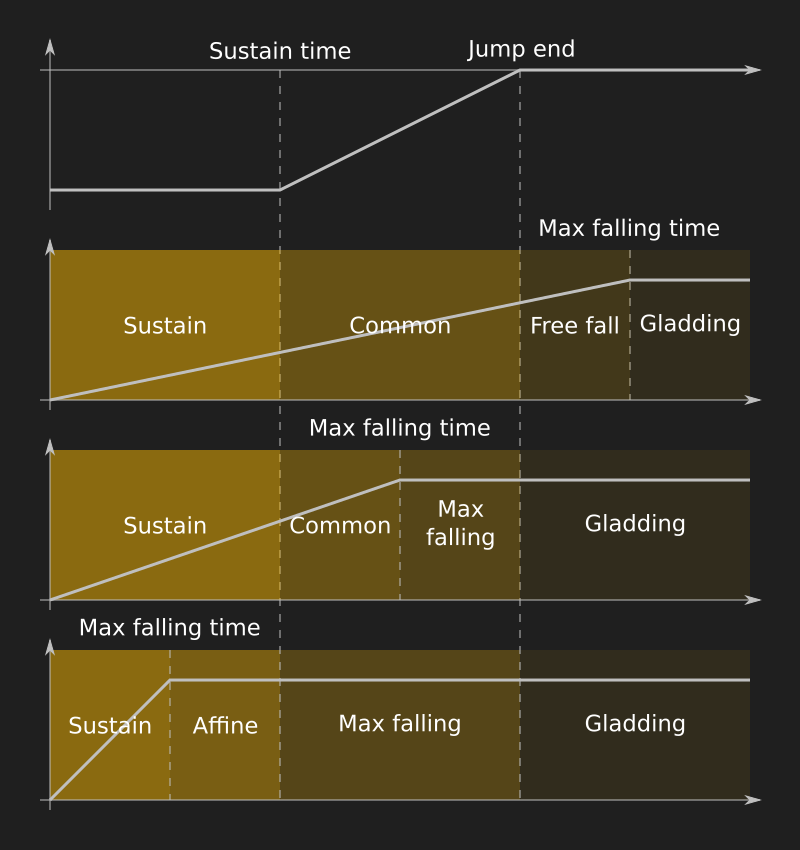
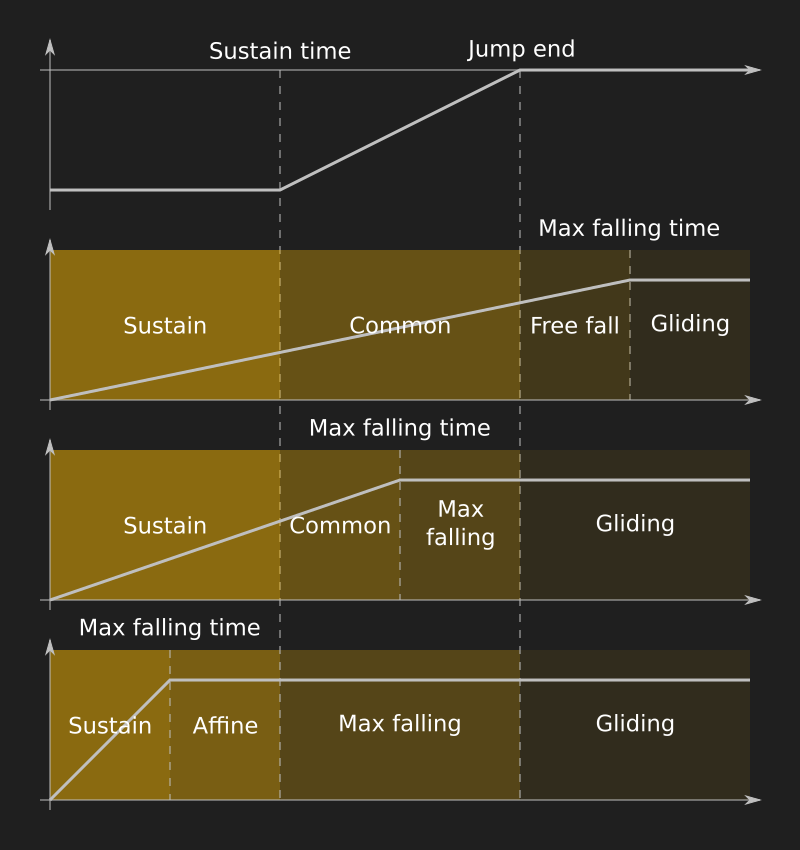
Fix a typo in "gliding"

Changed region(s): [[0.7188, 0.8259, 0.8438, 0.8871], [0.7188, 0.5812, 0.875, 0.6424], [0.7812, 0.3671, 0.9375, 0.3976]]

diff --git a/Extensions/PlatformBehavior/README.md b/Extensions/PlatformBehavior/README.md
@@ -101,17 +101,17 @@ Depending on the when the maximum falling speed is reached, there can be 3 piece
   - sustain case
   - common case
   - free fall case
-  - gladding case
+  - gliding case
 - before the jump end and after the sustaining
   - sustain case
   - common case
   - max falling case
-  - gladding case
+  - gliding case
 - during the sustaining
   - sustain case
   - affine case
   - max falling case
-  - gladding case
+  - gliding case
 
 [![Jump cases](./diagrams/JumpCases.png)](./diagrams/JumpCases.svgz)
 
@@ -167,8 +167,8 @@ affineCaseHeight(t, gravity, jumpSpeed, maxFallingSpeed) = sustainedX(t, jumpSpe
 # jumpEndTime < t && maxFallingTime < t #
 # This is a strictly descending phase, the peak can't happen here #
 
-gladdingCaseSpeed(t, maxFallingSpeed) = maxFallingSpeed
-gladdingCaseHeight(t, gravity, jumpSpeed, jumpSustainTime, maxFallingSpeed) = jumpEndedX(t, gravity, jumpSpeed, jumpSustainTime) + fallEndedX(t, gravity)
+glidingCaseSpeed(t, maxFallingSpeed) = maxFallingSpeed
+glidingCaseHeight(t, gravity, jumpSpeed, jumpSustainTime, maxFallingSpeed) = jumpEndedX(t, gravity, jumpSpeed, jumpSustainTime) + fallEndedX(t, gravity)
 
 
 # jumpEndTime < t && t < maxFallingTime #
@@ -232,7 +232,7 @@ maxFallingCaseCaseUpTime(y, gravity, jumpSpeed, jumpSustainTime, maxFallingSpeed
 sustainCaseDownTime(y, gravity, jumpSpeed) = solve([sustainCaseHeight(t, gravity, jumpSpeed)==y], t)[1].rhs()
 commonCaseDownTime(y, gravity, jumpSpeed, jumpSustainTime) = solve([height(t, gravity, jumpSpeed, jumpSustainTime)==y], t)[1].rhs()
 maxFallingCaseCaseDownTime(y, gravity, jumpSpeed, jumpSustainTime, maxFallingSpeed) = solve([maxFallingCaseHeight(t, gravity, jumpSpeed, jumpSustainTime, maxFallingSpeed)==y], t)[1].rhs()
-gladdingCaseDownTime(t, gravity, jumpSpeed, jumpSustainTime, maxFallingSpeed) = solve([gladdingCaseHeight(t, gravity, jumpSpeed, jumpSustainTime, maxFallingSpeed)==y], t)[0].rhs() # only one solution (it's affine) #
+glidingCaseDownTime(t, gravity, jumpSpeed, jumpSustainTime, maxFallingSpeed) = solve([glidingCaseHeight(t, gravity, jumpSpeed, jumpSustainTime, maxFallingSpeed)==y], t)[0].rhs() # only one solution (it's affine) #
 freeFallCaseDownTime(t, gravity, jumpSpeed, jumpSustainTime, maxFallingSpeed) = solve([freeFallCaseHeight(t, gravity, jumpSpeed, jumpSustainTime, maxFallingSpeed)==y], t)[1].rhs()
 
 affineCaseTime(y, jumpSpeed, maxFallingSpeed) = solve([affineCaseHeight(t, jumpSpeed, maxFallingSpeed)==y], t)[0].rhs()
@@ -249,7 +249,7 @@ if (maxFallingSpeedReachedTime > jumpEndTime) {
         if (time > jumpEndTime || Number.isNaN(time)) {
             time = freeFallCase(y);
             if (time > maxFallingSpeedReachedTime || Number.isNaN(time)) {
-                time = gladdingCase(y);
+                time = glidingCase(y);
             }
         }
     }
@@ -261,7 +261,7 @@ else if (maxFallingSpeedReachedTime > jumpSustainTime) {
         if (time > maxFallingSpeedReachedTime || Number.isNaN(time)) {
             time = maxFallingCase(y);
             if (time > jumpEndTime || Number.isNaN(time)) {
-                time = gladdingCase(y);
+                time = glidingCase(y);
             }
         }
     }
@@ -273,7 +273,7 @@ else {
         if (time > jumpSustainTime || Number.isNaN(time)) {
             time = maxFallingCase(y);
             if (time > jumpEndTime || Number.isNaN(time)) {
-                time = gladdingCase(y);
+                time = glidingCase(y);
             }
         }
     }
